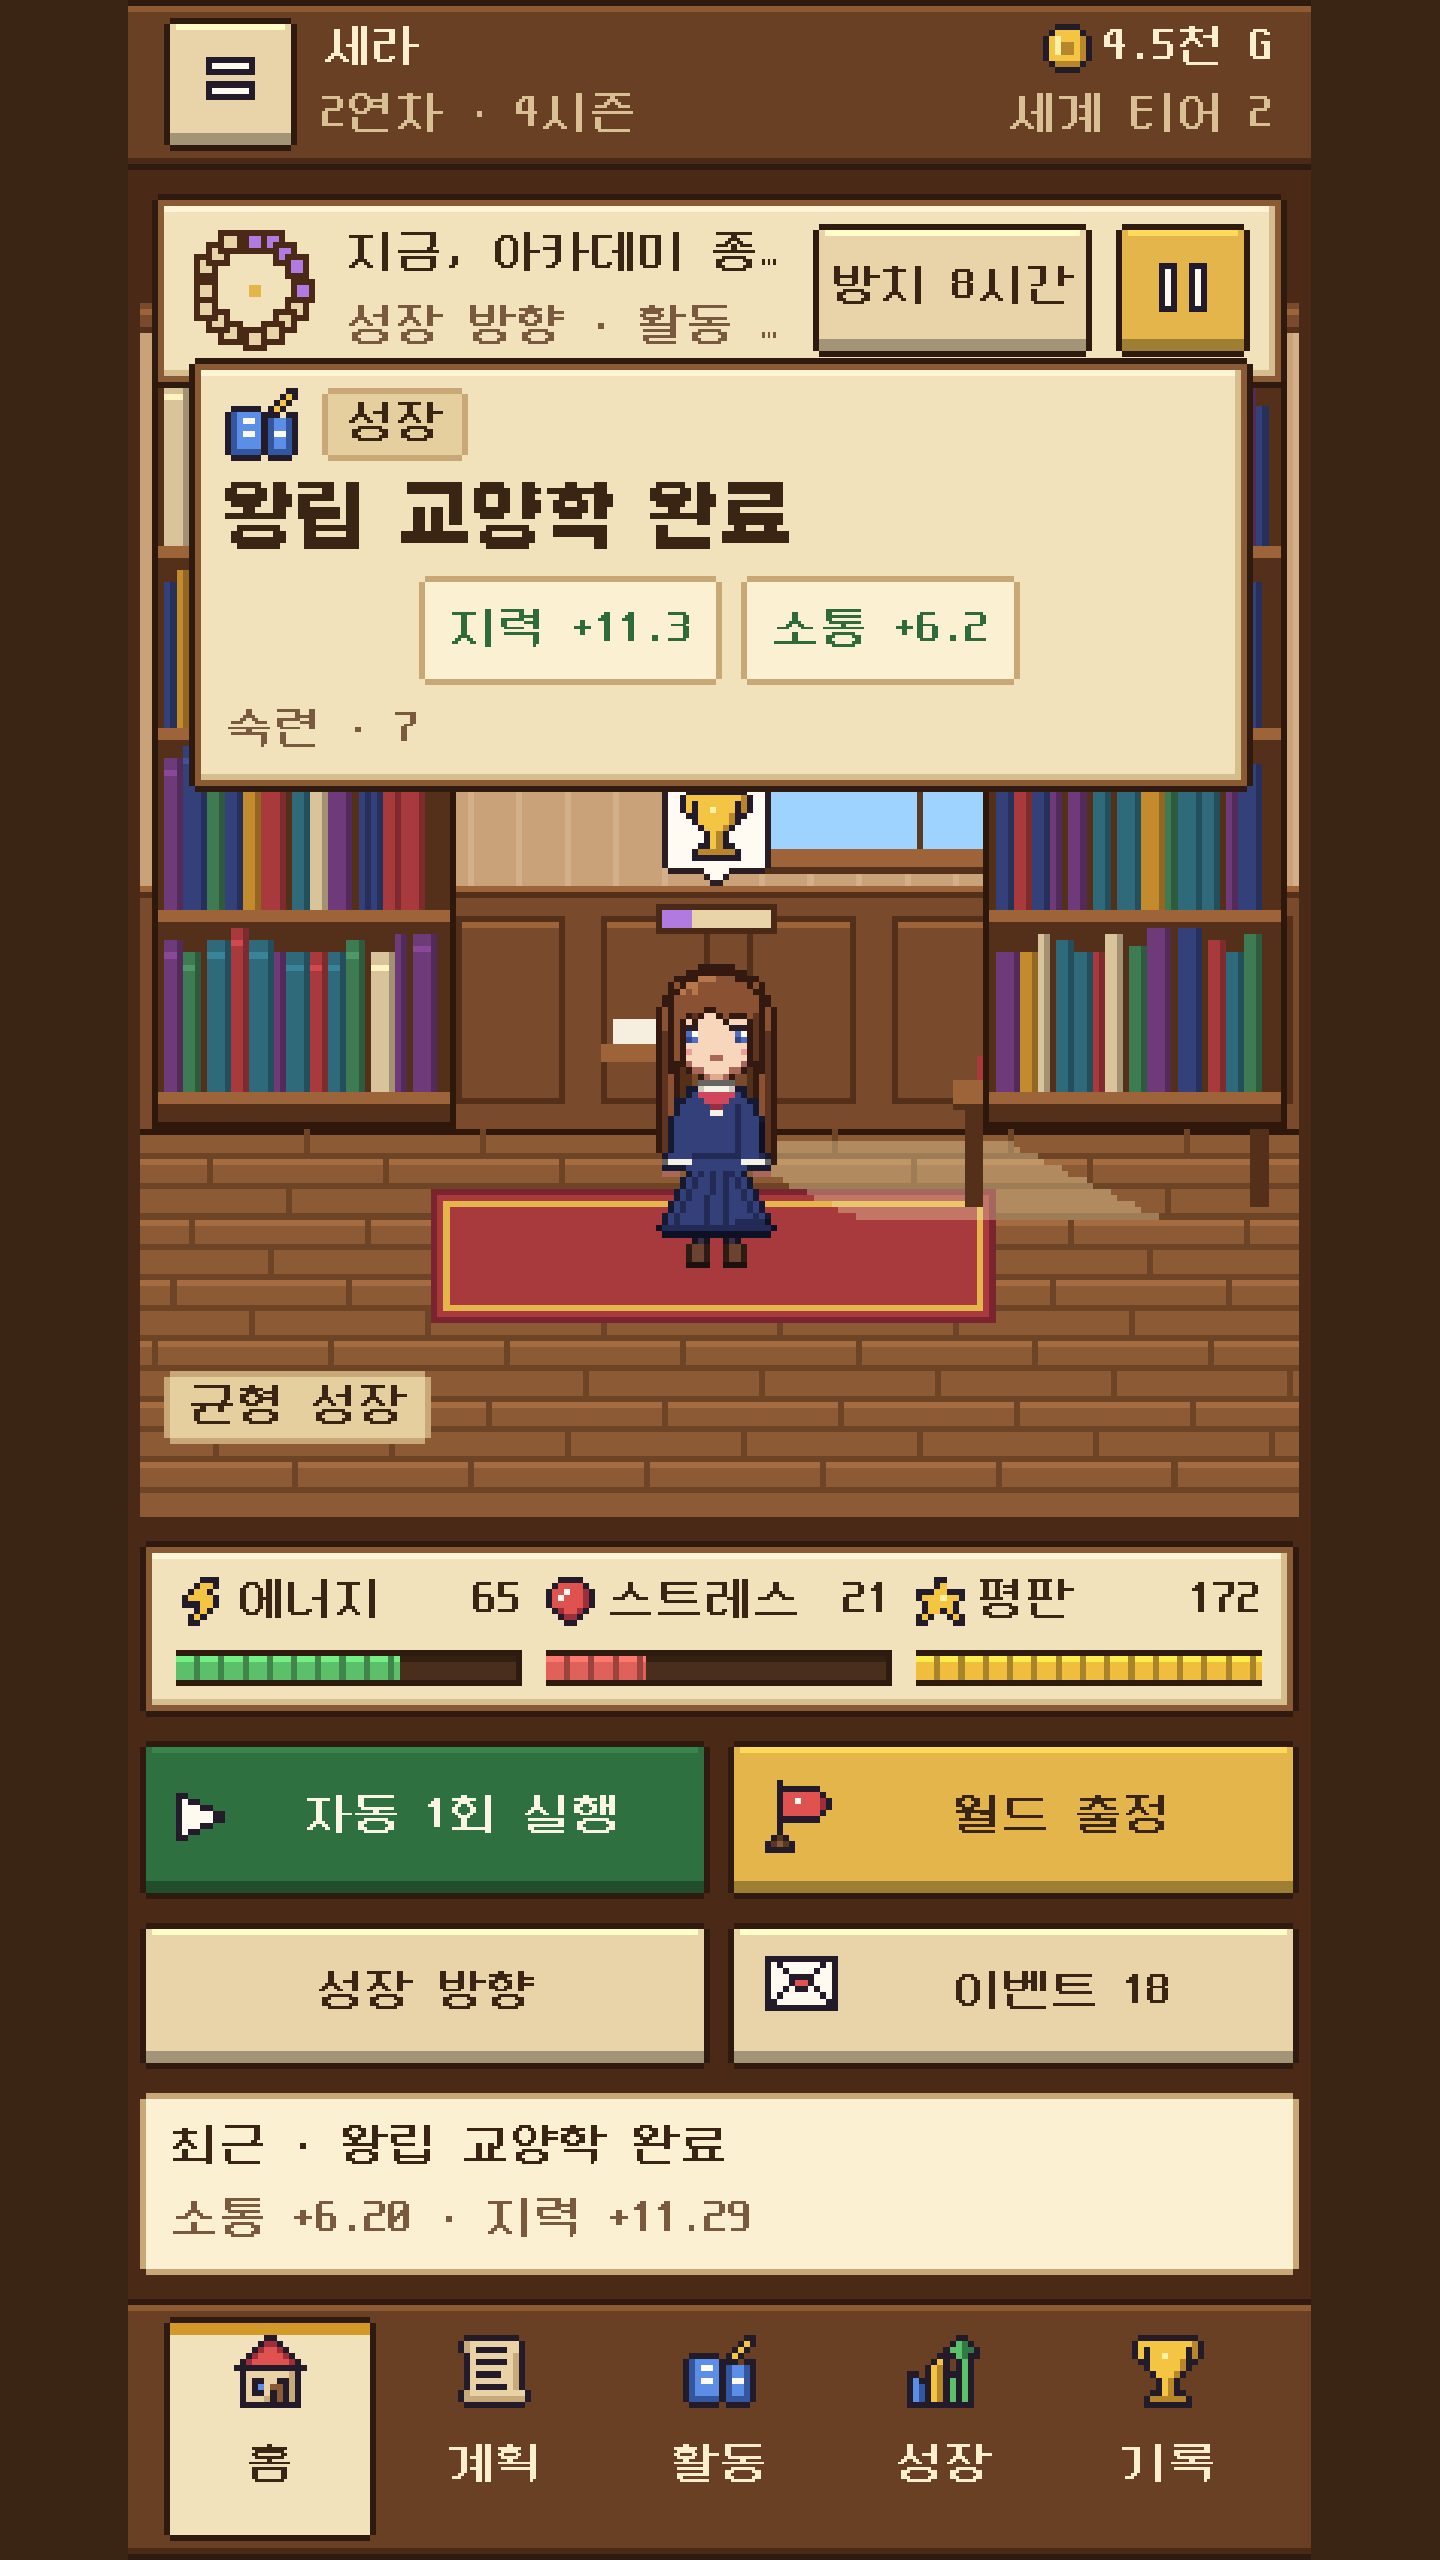
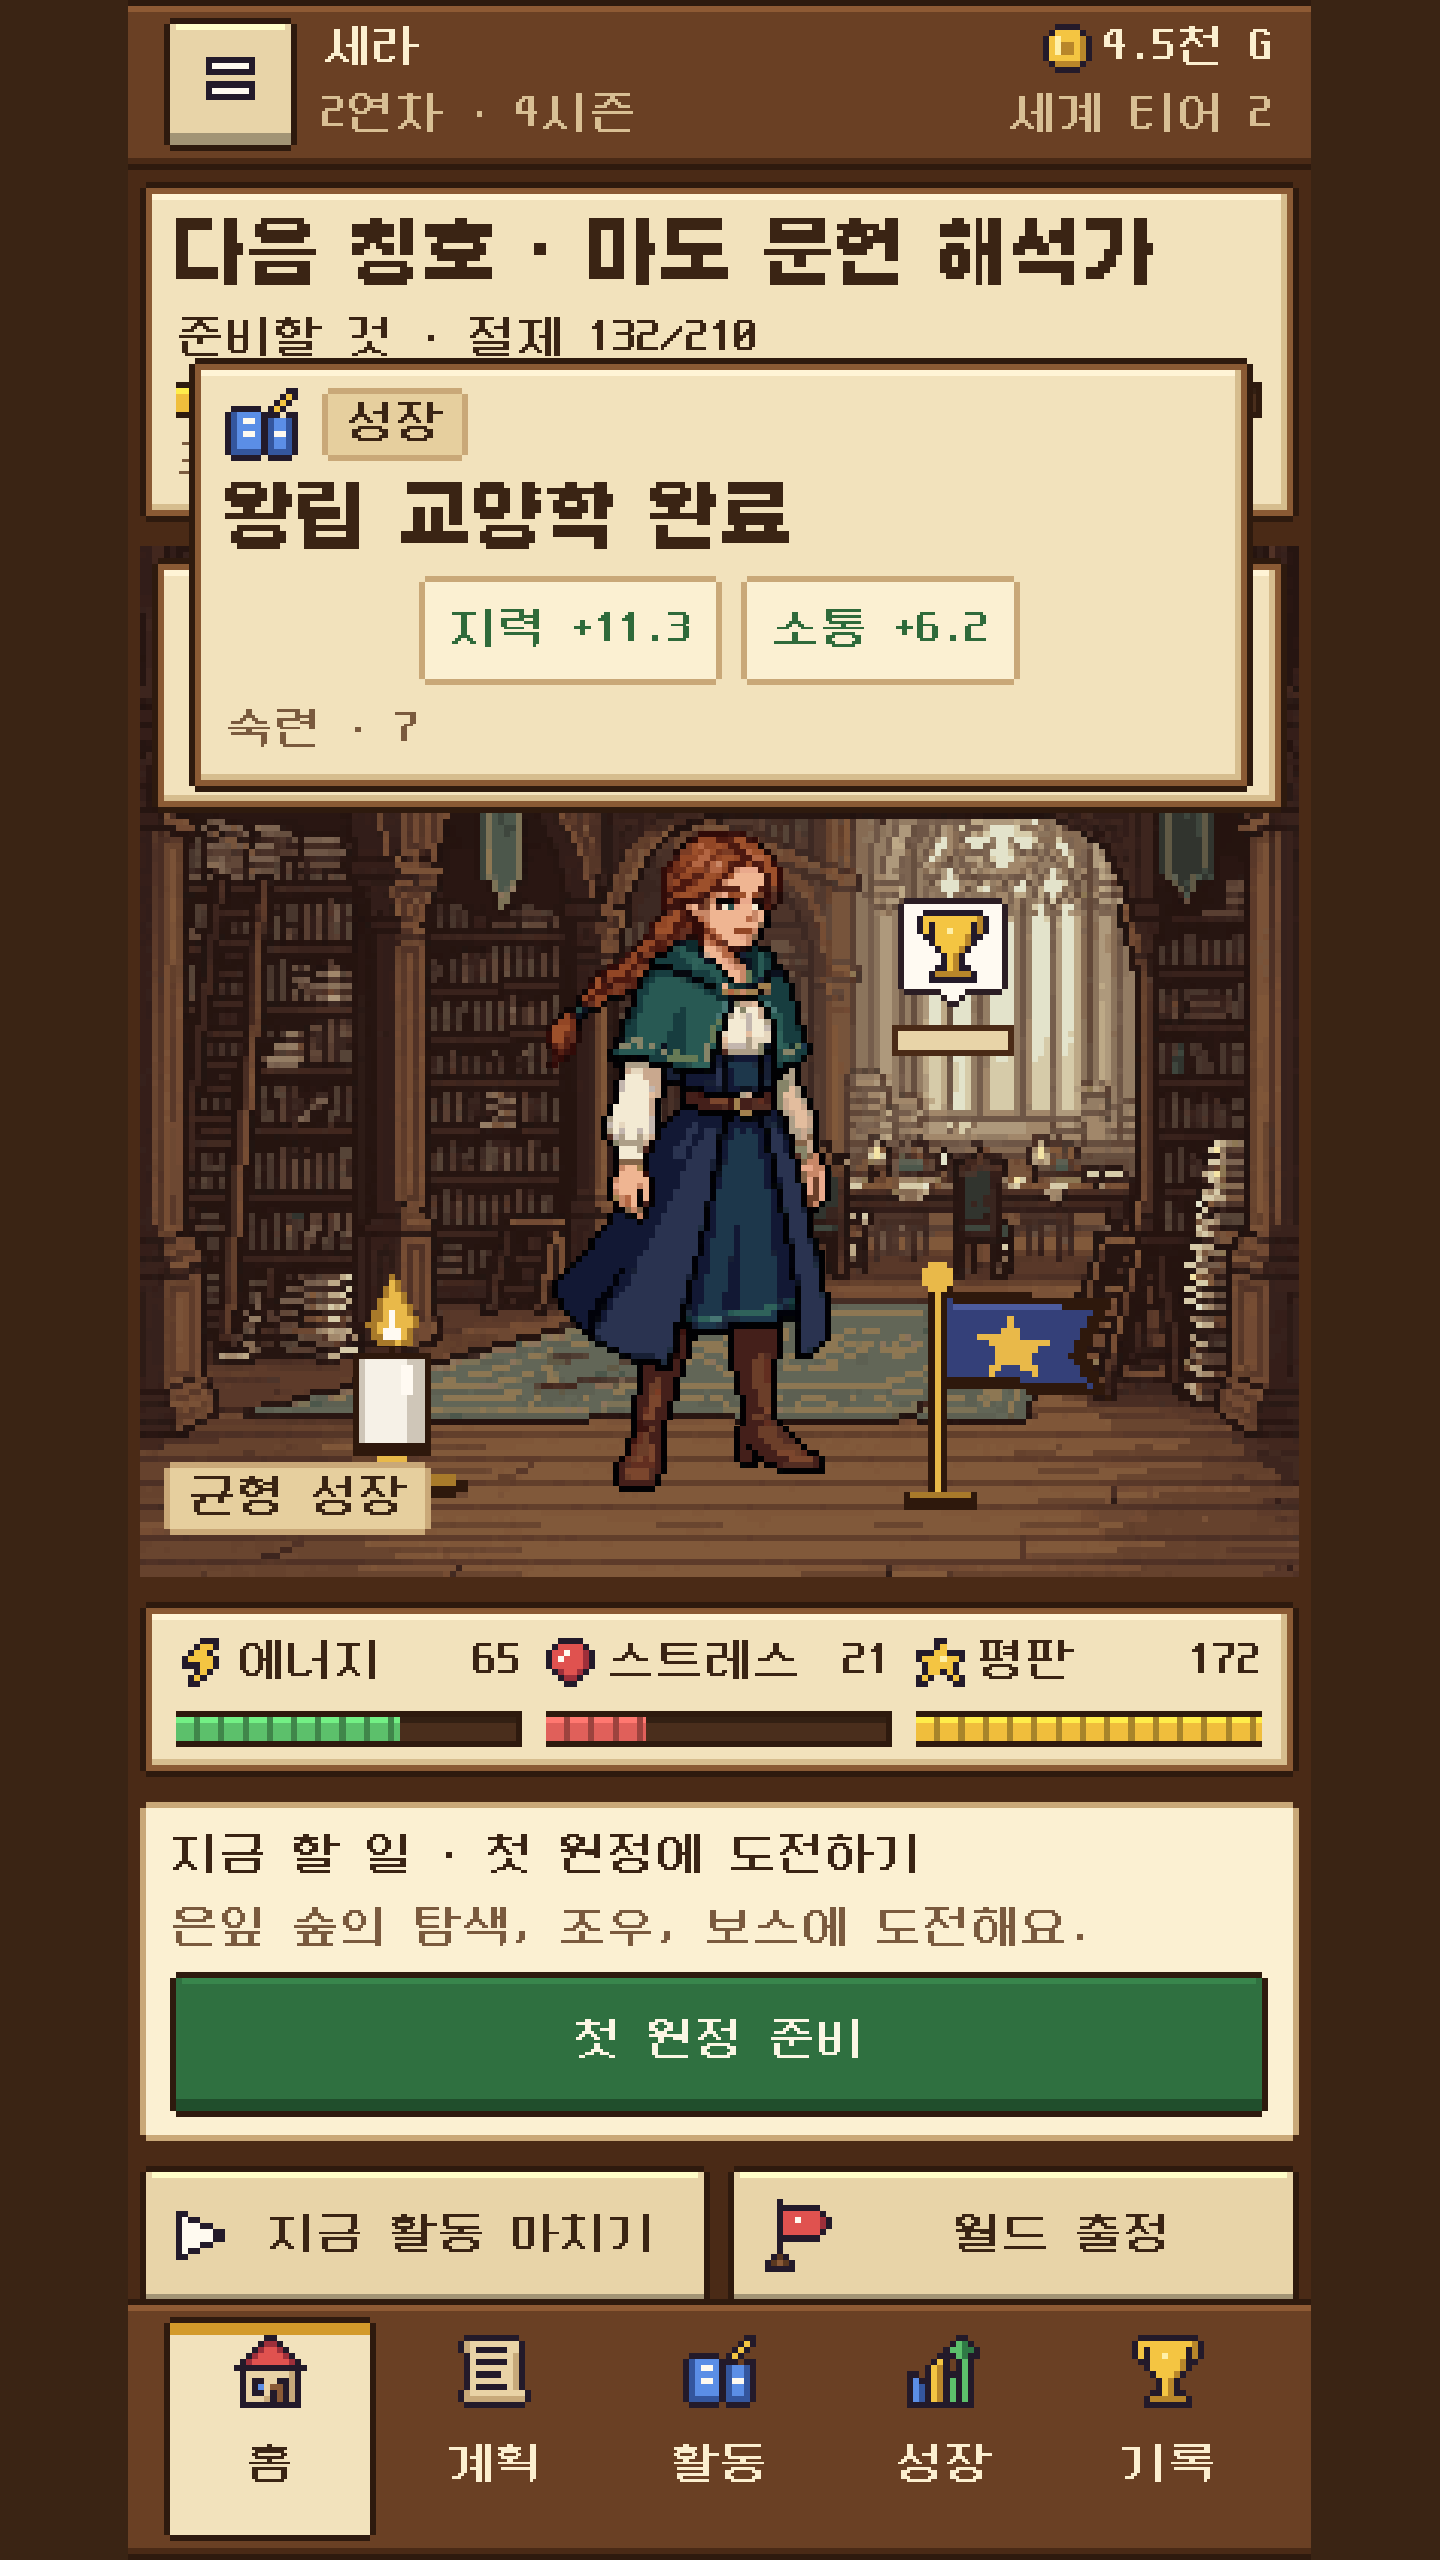
Google Play 1.1.0 버전과 현재 게임 등록정보 준비

diff --git a/docs/design/2026-11-07-google-play-1.1.0/design.md b/docs/design/2026-11-07-google-play-1.1.0/design.md
@@ -1,0 +1,15 @@
+# Google Play 1.1.0 업데이트 출시
+
+2026-11-07 사용자 지시 「구글 플레이 버전 출시 진행하고 세션 종료하자」를 승인 근거로 main `85dd49c1715862d139557de782bbd09cb1f752e6`에 완료된 새 PixelLab 아트·장면 중심 모험·목표 안내·직접 학습 후 자동 진행·안전 영역 수명 오류 수정을 Google Play에 출시한다. 앞선 구현 계획의 release:null 이후 받은 별도 출시 승인으로, 기존 구현·검수 기록은 보존한다.
+
+기존 Seolee Apps 개인 계정5547060480954653351, 패키지com.seoleeapps.princesstycoon, 한국 무료100% 배포, 광고·결제·서버·분석 SDK 없음과 기존 관리형 게시 설정을 유지한다. Console의 계정·소유와 API의 기존 bundle code1~3을 확인했다. 새 버전은 기능 추가를 반영한1.1.0, code4다.
+
+이 seoleeapps 저장소는 기존 승인된 docs/google-play-release.md의 수동 출시 레인을 사용한다. 중앙 release-tag/deploy caller·원장 브랜치를 새로 만들지 않으며 중앙 조직 출시 검증 통과로 표시하지 않는다. export 버전·Play config·새 원장을 함께 고치고 Ready PR로 병합한 후보에 annotated v1.1.0 태그를 만든다. 기존1.0.1 원장은 history에 보존한다.
+
+이번 변경은 출시 버전과 실제 화면·등록 문구뿐이며 게임 코드·아트·규칙·SDK·권한·저장 형식·엔진은 바꾸지 않는다. L1/dev, redesign:false. 같은 후보 SHA에서 npm test(19smokes), test:e2e와 capture:e2e(390×844/430×932/720×1280), balance, Web export, Play config 검사, Android AAB 빌드를 실행한다. 현재 화면으로 실제 스토어 스크린샷을 다시 캡처한다. 버전/문구에 동작 TDD를 만들지 않고 manifest의 패키지·버전·SDK·권한·ABI, 업로드 인증서·포함 리소스·API 수신 해시를 대조한다. 기존 UI 개편3회 검수는 이전 구현 근거로 남기며 이번 출시를 새 UI 개편이나 새 독립 검수로 세지 않는다.
+
+개발 환경으로 확인할 수 없는 새 네이티브 필수 항목이 없어 기기를 사용하지 않는다. 최초 출시의 AND-01~07 기록을 현재 후보 기기 실행으로 표시하지 않는다. 기존 custom Theme의 별도 정적 UI 스캐너7 FAIL 기록도 덮지 않는다.
+
+같은 AAB를 내부 테스트에 게시한 뒤 정확한 버전과 처리 상태를 읽고 한국 프로덕션으로 승격한다. 출시 노트, 실제 스토어 설명·그림·국가·정책·관리형 게시와 제출 ID를 재조회한다. changesInReviewBehavior=ERROR_IF_IN_REVIEW로 기존 심사를 임의 취소하지 않는다. 제출과 승인·공개는 별도다. 심사가 오래 걸리면 마지막 제출 ID·조회 시각·승인 뒤 자동/수동 전환을 원장에 남기고 이번 사용자 요청대로 브라우저·worktree·임시 산출물을 정리해 세션을 종료한다. 상시 모니터를 만들거나 감시를 약속하지 않는다.
+
+모든 실행 원본·AAB·API/Console readback은 NAS1dual/Data로 스트림 복사하고 ZIP 내부까지 크기·SHA-256을 대조한 뒤 로컬에서 정리한다. 등록용 실제 스크린샷과 코드·짧은 실행 기록만 Git에 남긴다.
